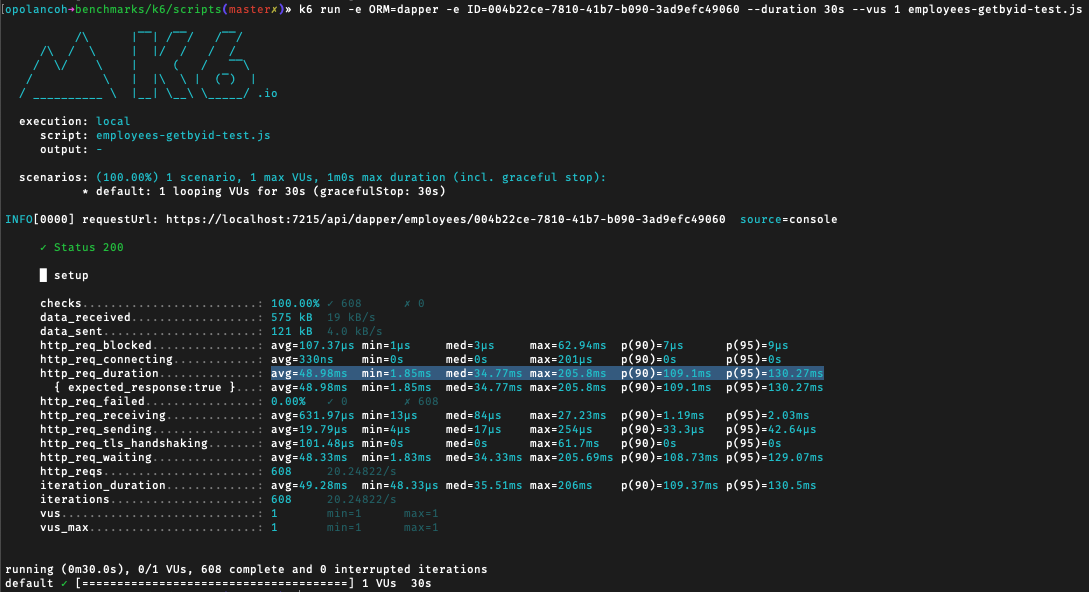
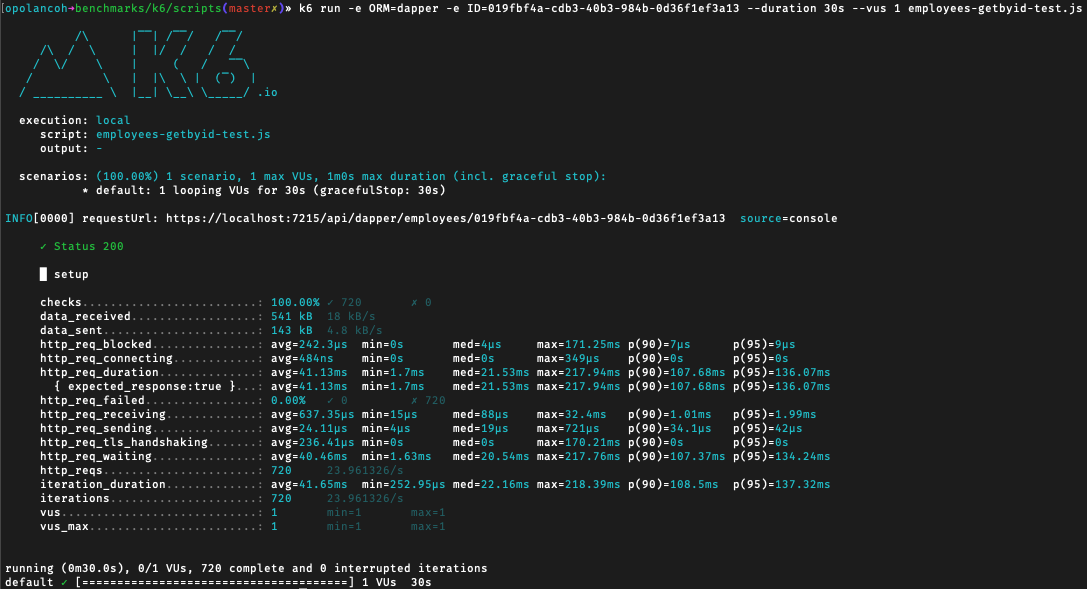
Update benchmarks

diff --git a/DotNetOrmComparison.Api/Extensions/ServiceExtensions.cs b/DotNetOrmComparison.Api/Extensions/ServiceExtensions.cs
@@ -24,7 +24,7 @@ public static class ServiceExtensions
         services.AddScoped<IEmployeeEntityFrameworkService, EmployeeEntityFrameworkService>();
 
         // Dapper
-        services.AddScoped<DapperDbContext>(provider =>
+        services.AddScoped<DapperDbContext>(_ =>
             new DapperDbContext(appDbConnection!));
         services.AddScoped<IEmployeeDapperRepository, EmployeeDapperRepository>();
         services.AddScoped<IEmployeeDapperService, EmployeeDapperService>();

diff --git a/DotNetOrmComparison.Services/EmployeeEntityFrameworkService.cs b/DotNetOrmComparison.Services/EmployeeEntityFrameworkService.cs
@@ -27,7 +27,7 @@ public class EmployeeEntityFrameworkService : IEmployeeEntityFrameworkService
         };
     }
 
-    public async Task<ApplicationResult> GetById(Guid id)
+    public async Task<ApplicationResult?> GetById(Guid id)
     {
         var item = await _repository.GetById(id);
 

diff --git a/DotNetOrmComparison.Core/Contracts/Repositories/IEmployeeEntityFrameworkRepository.cs b/DotNetOrmComparison.Core/Contracts/Repositories/IEmployeeEntityFrameworkRepository.cs
@@ -1,7 +1,3 @@
-using DotNetOrmComparison.Core.Entities;
-using DotNetOrmComparison.Core.Shared.DTOs;
-using DotNetOrmComparison.Core.Shared.InputModels;
-
 namespace DotNetOrmComparison.Core.Contracts.Repositories;
 
 public interface IEmployeeEntityFrameworkRepository : IEmployeeRepository

diff --git a/DotNetOrmComparison.Core/Contracts/Repositories/IEmployeeDapperRepository.cs b/DotNetOrmComparison.Core/Contracts/Repositories/IEmployeeDapperRepository.cs
@@ -1,7 +1,3 @@
-using DotNetOrmComparison.Core.Entities;
-using DotNetOrmComparison.Core.Shared.DTOs;
-using DotNetOrmComparison.Core.Shared.InputModels;
-
 namespace DotNetOrmComparison.Core.Contracts.Repositories;
 
 public interface IEmployeeDapperRepository : IEmployeeRepository

diff --git a/DotNetOrmComparison.Core/Contracts/Services/IEmployeeEntityFrameworkService.cs b/DotNetOrmComparison.Core/Contracts/Services/IEmployeeEntityFrameworkService.cs
@@ -1,6 +1,3 @@
-using DotNetOrmComparison.Core.Shared.InputModels;
-using DotNetOrmComparison.Core.Shared.DTOs;
-
 namespace DotNetOrmComparison.Core.Contracts.Services;
 
 public interface IEmployeeEntityFrameworkService : IEmployeeService

diff --git a/DotNetOrmComparison.Core/Contracts/Services/IEmployeeDapperService.cs b/DotNetOrmComparison.Core/Contracts/Services/IEmployeeDapperService.cs
@@ -1,6 +1,3 @@
-using DotNetOrmComparison.Core.Shared.InputModels;
-using DotNetOrmComparison.Core.Shared.DTOs;
-
 namespace DotNetOrmComparison.Core.Contracts.Services;
 
 public interface IEmployeeDapperService : IEmployeeService

diff --git a/DotNetOrmComparison.Api/Program.cs b/DotNetOrmComparison.Api/Program.cs
@@ -1,6 +1,4 @@
 using DotNetOrmComparison.Api.Extensions;
-using DotNetOrmComparison.Data.EntityFramework;
-using DotNetOrmComparison.Data.EntityFramework.Seed;
 
 var builder = WebApplication.CreateBuilder(args);
 

diff --git a/README.md b/README.md
@@ -40,15 +40,15 @@ Goal: Analyze the benchmarking results to understand performance under stress.
 
 **Results (http_req_duration)**:
 
-| ORM       | http_reqs | avg     | min    | med    | max      | p(90)   | p(95)   |
-|-----------|-----------|---------|--------|--------|----------|---------|---------|
-| `EF Core` | 1456      | 20.28ms | 5.34ms | 9.48ms | 239.79ms | 43.61ms | 75.39ms |
-| `Dapper`  | 1964      | 14.96ms | 3.31ms | 7.6ms  | 264.09ms | 34.27ms | 56.17ms |
+| ORM       | http_reqs | avg      | min    | med      | max      | p(90)    | p(95)   |
+|-----------|-----------|----------|--------|----------|----------|----------|---------|
+| `EF Core` | 1147      | 25.7ms   | 5.48ms | 10.95ms  | 375.39ms | 63.3ms   | 88.55ms |
+| `Dapper`  | 1676      | 17.56ms  | 3.62ms | 8.25ms   | 227.05ms | 37.23ms  | 59.65ms |
 
 * 30 seconds
 * 1 user
-* Insertions: Dapper inserted 508 more rows than EF Core
-* Average: Dapper is 1.4x faster than EF Core
+* Insertions: Dapper inserted 529 more rows than EF Core
+* Average: Dapper is 1.5x faster than EF Core
 
 **EF Core**
 ```sh
@@ -71,15 +71,15 @@ k6 run -e ORM=dapper --duration 30s --vus 1 employees-create-test.js
 
 **Results (http_req_duration)**:
 
-| ORM       | http_reqs | avg     | min    | med     | max      | p(90)   | p(95)   |
-|-----------|-----------|---------|--------|---------|----------|---------|---------|
-| `EF Core` | 1262      | 23.1ms  | 4.03ms | 8.78ms  | 250.15ms | 59.76ms | 96.62ms |
-| `Dapper`  | 1596      | 18.16ms | 1.72ms | 4.19ms  | 210.18ms | 56.28ms | 81.25ms |
+| ORM       | http_reqs | avg      | min    | med     | max      | p(90)    | p(95)    |
+|-----------|-----------|----------|--------|---------|----------|----------|----------|
+| `EF Core` | 861       | 33.82ms  | 4.8ms  | 11.17ms | 551.96ms | 103.84ms | 130.68ms |
+| `Dapper`  | 1277      | 22.8ms   | 2.02ms | 5.83ms  | 210.53ms | 66.85ms  | 104.72ms |
 
 * 30 seconds
 * 1 user
-* Reads: Dapper fetched 334 more rows than EF Core
-* Average: Dapper is 1.3x faster than EF Core
+* Reads: Dapper fetched 416 more rows than EF Core
+* Average: Dapper is 1.5x faster than EF Core
 
 **EF Core**
 ```sh
@@ -102,10 +102,10 @@ k6 run -e ORM=dapper --duration 30s --vus 1 employees-getall-test.js
 
 **Results (http_req_duration)**:
 
-| ORM       | http_reqs | avg     | min     | med     | max       | p(90)   | p(95)    |
-|-----------|-----------|---------|---------|---------|-----------|---------|----------|
-| `EF Core` | 1148      | 25.74ms | 4.07ms  | 9.61ms  | 292.58ms  | 76.94ms | 98.12ms  |
-| `Dapper`  | 608       | 48.98ms | 1.85ms  | 34.77ms | 205.8ms   | 109.1ms | 130.27ms |
+| ORM       | http_reqs | avg     | min    | med     | max      | p(90)    | p(95)    |
+|-----------|-----------|---------|--------|---------|----------|----------|----------|
+| `EF Core` | 967       | 30.54ms | 4.36ms | 10.19ms | 267.57ms | 87.73ms  | 123.55ms |
+| `Dapper`  | 720       | 41.13ms | 1.7ms  | 21.53ms | 217.94ms | 107.68ms | 136.07ms |
 
 * 30 seconds
 * 1 user
